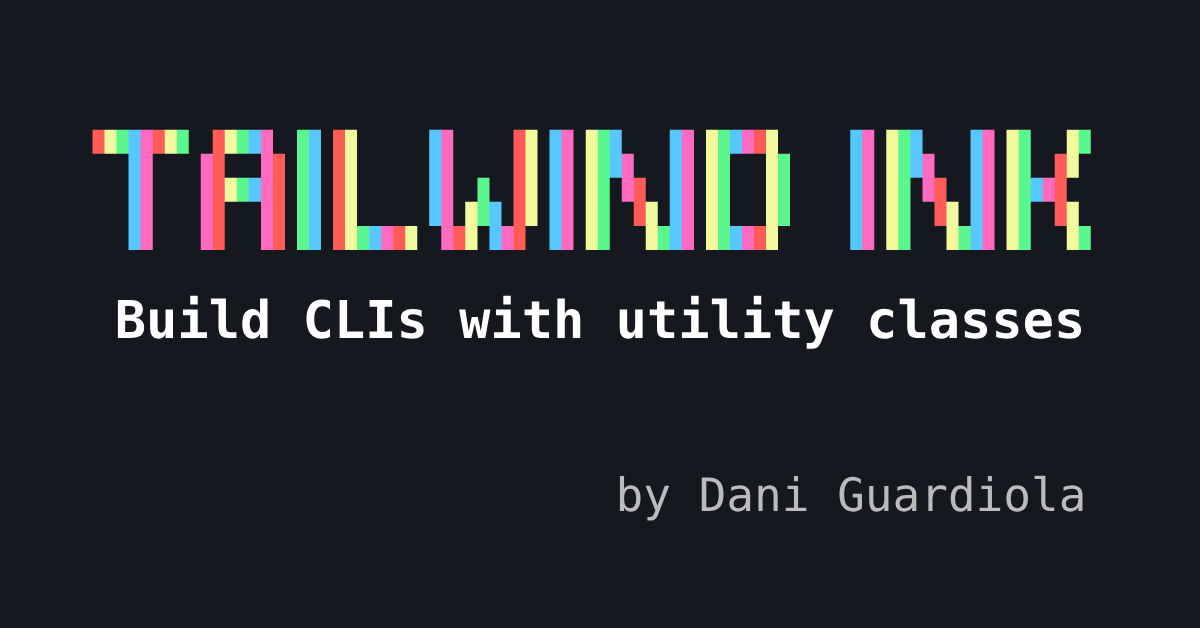
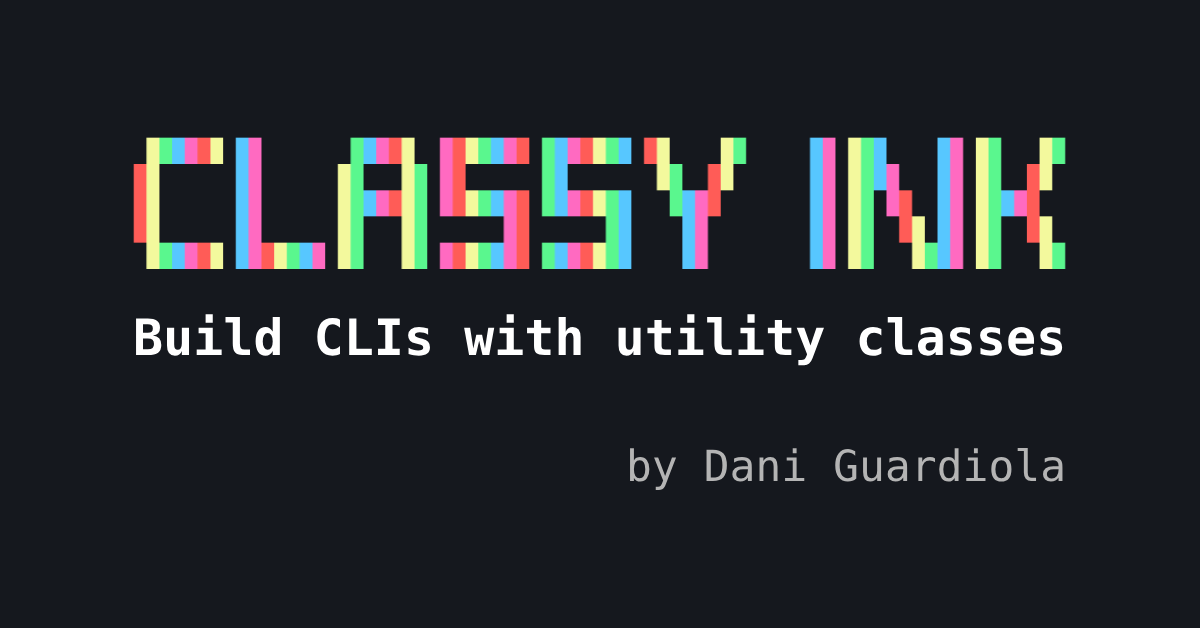
Rebrand Tailwind Ink to Classy Ink (#16)

Changed region(s): [[0.0617, 0.1815, 0.925, 0.5748], [0.4933, 0.6959, 0.925, 0.8169]]

diff --git a/src/demo/components/FlexDemo.tsx b/src/demo/components/FlexDemo.tsx
@@ -1,4 +1,4 @@
-import { Box, Text } from "../../index.js"; // "tailwind-ink"
+import { Box, Text } from "../../index.js"; // "classy-ink"
 import { DemoPageTitle } from "./DemoComponents.js";
 
 function repeat(n: number, fn: (i: number) => JSX.Element) {
@@ -11,7 +11,7 @@ function repeat(n: number, fn: (i: number) => JSX.Element) {
 
 function Column1() {
   return (
-    <Box class="grow flex-col gap-1">
+    <Box class="flex-col grow gap-1">
       <Box class="flex-col">
         <Text class="italic">flex-row</Text>
         <Box class="border border-red flex-row">
@@ -78,7 +78,7 @@ function Column1() {
 
 function Column2() {
   return (
-    <Box class="grow flex-col gap-1">
+    <Box class="flex-col grow gap-1">
       <Box class="flex-col">
         <Text class="italic">gap-1</Text>
         <Box class="border border-red flex-wrap w-30 gap-1">
@@ -125,7 +125,7 @@ function Column2() {
           <Box class="border border-red px-1 grow-0">
             <Text>grow-0</Text>
           </Box>
-          <Box class="grow border border-red px-1">
+          <Box class="border border-red px-1 grow">
             <Text>grow</Text>
           </Box>
         </Box>
@@ -144,10 +144,10 @@ function Column2() {
       <Box class="flex-col">
         <Text class="italic">shrink</Text>
         <Box class="border w-40">
-          <Box class="grow shrink border border-red px-1 w-25">
+          <Box class="border border-red px-1 w-25 grow shrink">
             <Text>shrink</Text>
           </Box>
-          <Box class="grow border border-red px-1 w-25 shrink-0">
+          <Box class="border border-red px-1 w-25 grow shrink-0">
             <Text>shrink-0</Text>
           </Box>
         </Box>
@@ -155,10 +155,10 @@ function Column2() {
       <Box class="flex-col">
         <Text class="italic">basis</Text>
         <Box class="border w-40">
-          <Box class="grow border border-red px-1 w-25 basis-15">
+          <Box class="border border-red px-1 w-25 grow basis-15">
             <Text>basis-15</Text>
           </Box>
-          <Box class="grow border border-red px-1 w-25 basis-5">
+          <Box class="border border-red px-1 w-25 grow basis-5">
             <Text>basis-5</Text>
           </Box>
         </Box>
@@ -169,7 +169,7 @@ function Column2() {
 
 export function FlexDemo() {
   return (
-    <Box class="grow flex-col px-1 gap-1">
+    <Box class="flex-col px-1 grow gap-1">
       <DemoPageTitle>Flex layout (1)</DemoPageTitle>
       <Box class="gap-2">
         <Column1 />

diff --git a/src/demo/lib/ascii-title.ts b/src/demo/lib/ascii-title.ts
@@ -1,7 +1,11 @@
-export const ASCII_TITLE = `
-████████  █████  ██ ██      ██     ██ ██ ███    ██ ██████      ██ ███    ██ ██   ██
-   ██    ██   ██ ██ ██      ██     ██ ██ ████   ██ ██   ██     ██ ████   ██ ██  ██ 
-   ██    ███████ ██ ██      ██  █  ██ ██ ██ ██  ██ ██   ██     ██ ██ ██  ██ █████  
-   ██    ██   ██ ██ ██      ██ ███ ██ ██ ██  ██ ██ ██   ██     ██ ██  ██ ██ ██  ██ 
-   ██    ██   ██ ██ ███████  ███ ███  ██ ██   ████ ██████      ██ ██   ████ ██   ██
-`.trim();
+function trimLineBreaks(str: string): string {
+  return str.replace(/^[\n]+|[\n]+$/g, "");
+}
+
+export const ASCII_TITLE = trimLineBreaks(`
+ ██████ ██       █████  ███████ ███████ ██    ██     ██ ███    ██ ██   ██
+██      ██      ██   ██ ██      ██       ██  ██      ██ ████   ██ ██  ██
+██      ██      ███████ ███████ ███████   ████       ██ ██ ██  ██ █████
+██      ██      ██   ██      ██      ██    ██        ██ ██  ██ ██ ██  ██
+ ██████ ███████ ██   ██ ███████ ███████    ██        ██ ██   ████ ██   ██
+`);

diff --git a/src/demo/components/BorderDemo.tsx b/src/demo/components/BorderDemo.tsx
@@ -1,10 +1,10 @@
 import { BOX_STYLES, COLORS } from "../../data/index.js";
-import { Box, Text } from "../../index.js"; // "tailwind-ink"
+import { Box, Text } from "../../index.js"; // "classy-ink"
 import { DemoPageTitle } from "./DemoComponents.js";
 
 function Column1() {
   return (
-    <Box class="grow flex-col">
+    <Box class="flex-col grow">
       <Text class="italic">{`border-<side>`}</Text>
       <Box class="flex-col gap-1">
         <Box class="flex-col">
@@ -68,7 +68,7 @@ function Column1() {
 
 function Column2() {
   return (
-    <Box class="grow flex-col">
+    <Box class="flex-col grow">
       <Text class="italic">{`border-<color>`}</Text>
       <Box class="flex-col">
         {COLORS.map((color) => (
@@ -83,7 +83,7 @@ function Column2() {
 
 function Column3() {
   return (
-    <Box class="grow flex-col">
+    <Box class="flex-col grow">
       <Text class="italic">border-dim</Text>
       <Box class="flex-col">
         {COLORS.map((color) => (
@@ -98,7 +98,7 @@ function Column3() {
 
 export function BorderDemo() {
   return (
-    <Box class="grow flex-col px-1 gap-1">
+    <Box class="flex-col px-1 grow gap-1">
       <DemoPageTitle>Border utilities</DemoPageTitle>
       <Box class="gap-2">
         <Column1 />

diff --git a/src/demo/components/BasicDemo.tsx b/src/demo/components/BasicDemo.tsx
@@ -1,9 +1,9 @@
-import { Box, Text } from "../../index.js"; // "tailwind-ink"
+import { Box, Text } from "../../index.js"; // "classy-ink"
 import { DemoPageTitle } from "./DemoComponents.js";
 
 function Column1() {
   return (
-    <Box class="grow flex-col gap-1">
+    <Box class="flex-col grow gap-1">
       <Box class="flex-col">
         <Text class="italic">m-1</Text>
         <Box class="border">
@@ -40,7 +40,7 @@ function Column1() {
 
 function Column2() {
   return (
-    <Box class="grow flex-col gap-1">
+    <Box class="flex-col grow gap-1">
       <Box class="flex-col">
         <Text class="italic">p-1</Text>
         <Box class="border border-red p-1">
@@ -71,7 +71,7 @@ function Column2() {
 
 function Column3() {
   return (
-    <Box class="grow flex-col gap-1">
+    <Box class="flex-col grow gap-1">
       <Box class="flex-col">
         <Text class="italic">w-10</Text>
         <Box class="border border-red w-10" />
@@ -104,10 +104,9 @@ function Column3() {
   );
 }
 
-
 export function BasicDemo() {
   return (
-    <Box class="grow flex-col px-1 gap-1">
+    <Box class="flex-col px-1 grow gap-1">
       <DemoPageTitle>Basic utilities</DemoPageTitle>
       <Box class="gap-2">
         <Column1 />

diff --git a/src/demo/components/FlexDemo2.tsx b/src/demo/components/FlexDemo2.tsx
@@ -1,4 +1,4 @@
-import { Box, Text } from "../../index.js"; // "tailwind-ink"
+import { Box, Text } from "../../index.js"; // "classy-ink"
 import { DemoPageTitle } from "./DemoComponents.js";
 
 function repeat(n: number, fn: (i: number) => JSX.Element) {
@@ -11,7 +11,7 @@ function repeat(n: number, fn: (i: number) => JSX.Element) {
 
 function Column1() {
   return (
-    <Box class="grow flex-col gap-1">
+    <Box class="flex-col grow gap-1">
       <Box class="flex-col">
         <Text class="italic">items-start</Text>
         <Box class="border border-red items-start h-7">
@@ -58,7 +58,7 @@ function Column1() {
 
 function Column2() {
   return (
-    <Box class="grow flex-col gap-1">
+    <Box class="flex-col grow gap-1">
       <Box class="flex-col">
         <Text class="italic">justify-start</Text>
         <Box class="border border-red justify-start">
@@ -115,7 +115,7 @@ function Column2() {
 
 export function FlexDemo2() {
   return (
-    <Box class="grow flex-col px-1 gap-1">
+    <Box class="flex-col px-1 grow gap-1">
       <DemoPageTitle>Flex layout (2)</DemoPageTitle>
       <Box class="gap-2">
         <Column1 />

diff --git a/src/components/ClassyInkProvider.tsx b/src/components/ClassyInkProvider.tsx
@@ -2,19 +2,19 @@ import { type ReactNode, useMemo } from "react";
 
 import { createLruCache } from "../lib/create-lru-cache.js";
 import { type Props } from "../shared.js";
-import { TailwindInkContext } from "./context.js";
+import { ClassyInkContext } from "./context.js";
 
 const DEFAULT_MAX_CACHE_SIZE = 500;
 
-export type TailwindInkProviderProps = {
+export type ClassyInkProviderProps = {
   maxCacheSize?: number;
   children: ReactNode;
 };
 
-export function TailwindInkProvider({
+export function ClassyInkProvider({
   maxCacheSize = DEFAULT_MAX_CACHE_SIZE,
   children,
-}: TailwindInkProviderProps) {
+}: ClassyInkProviderProps) {
   const cache = useMemo(
     () =>
       maxCacheSize > 0
@@ -23,8 +23,8 @@ export function TailwindInkProvider({
     [maxCacheSize],
   );
   return (
-    <TailwindInkContext.Provider value={{ cache }}>
+    <ClassyInkContext.Provider value={{ cache }}>
       {children}
-    </TailwindInkContext.Provider>
+    </ClassyInkContext.Provider>
   );
 }

diff --git a/src/demo/index.tsx b/src/demo/index.tsx
@@ -2,8 +2,8 @@
 import { render, useInput } from "ink";
 import { useState } from "react";
 
-import { TailwindInkProvider } from "../components/TailwindInkProvider.js";
-import { Box, Text } from "../index.js"; // "tailwind-ink"
+import { ClassyInkProvider } from "../components/ClassyInkProvider.js";
+import { Box, Text } from "../index.js"; // "classy-ink"
 import { BasicDemo } from "./components/BasicDemo.js";
 import { BorderDemo } from "./components/BorderDemo.js";
 import { FlexDemo } from "./components/FlexDemo.js";
@@ -93,12 +93,12 @@ function Menu({ onDemoStart }: MenuProps) {
     }
   });
   return (
-    <TailwindInkProvider>
+    <ClassyInkProvider>
       <Box class="border-t border-b border-double border-blue">
         <MenuButton selected={selected === "START"}>Start demo</MenuButton>
         <MenuButton selected={selected === "QUIT"}>Quit</MenuButton>
       </Box>
-    </TailwindInkProvider>
+    </ClassyInkProvider>
   );
 }
 

diff --git a/src/components/useClassyInk.ts b/src/components/useClassyInk.ts
@@ -1,16 +1,16 @@
 import { useMemo } from "react";
 
-import { tailwindToInkProps } from "../index.js";
+import { compileClass } from "../index.js";
 import { type Props } from "../shared.js";
-import { useTailwindInkContext } from "./context.js";
+import { useClassyInkContext } from "./context.js";
 
-export function useTailwindInk(className?: string): Props {
-  const { cache } = useTailwindInkContext();
+export function useClassyInk(className?: string): Props {
+  const { cache } = useClassyInkContext();
   return useMemo(() => {
     if (!className) return {};
     const cacheResult = cache?.get(className);
     if (cacheResult) return cacheResult;
-    const result = tailwindToInkProps(className);
+    const result = compileClass(className);
     cache?.set(className, result);
     return result;
   }, [className]);

diff --git a/src/demo/components/TextDemo.tsx b/src/demo/components/TextDemo.tsx
@@ -1,5 +1,5 @@
 import { COLORS } from "../../data/colors.js";
-import { Box, Text } from "../../index.js"; // "tailwind-ink"
+import { Box, Text } from "../../index.js"; // "classy-ink"
 import { DemoPageTitle } from "./DemoComponents.js";
 
 const LOREM_IPSUM =
@@ -7,7 +7,7 @@ const LOREM_IPSUM =
 
 function Column1() {
   return (
-    <Box class="grow flex-col w-40 gap-1">
+    <Box class="flex-col w-40 grow gap-1">
       <Box class="flex-col">
         <Text class="italic">whitespace-wrap</Text>
         <Box class="border flex-row">
@@ -93,7 +93,7 @@ function Column5() {
 
 export function TextDemo() {
   return (
-    <Box class="grow flex-col px-1 gap-1">
+    <Box class="flex-col px-1 grow gap-1">
       <DemoPageTitle>Text utilities</DemoPageTitle>
       <Box class="gap-2">
         <Column1 />

diff --git a/src/components/context.tsx b/src/components/context.tsx
@@ -3,14 +3,14 @@ import { createContext, useContext } from "react";
 import { type LruCache } from "../lib/create-lru-cache.js";
 import { type Props } from "../shared.js";
 
-type TailwindInkContextValue = {
+type ClassyInkContextValue = {
   cache?: LruCache<string, Props>;
 };
 
-export const TailwindInkContext = createContext<
-  TailwindInkContextValue | undefined
+export const ClassyInkContext = createContext<
+  ClassyInkContextValue | undefined
 >(undefined);
 
-export function useTailwindInkContext(): Partial<TailwindInkContextValue> {
-  return useContext(TailwindInkContext) ?? {};
+export function useClassyInkContext(): Partial<ClassyInkContextValue> {
+  return useContext(ClassyInkContext) ?? {};
 }

diff --git a/src/components/Box.tsx b/src/components/Box.tsx
@@ -1,7 +1,7 @@
-import { Box as InkBox,type DOMElement } from "ink";
+import { Box as InkBox, type DOMElement } from "ink";
 import { type ComponentPropsWithRef, forwardRef } from "react";
 
-import { useTailwindInk } from "./tailwind-ink.js";
+import { useClassyInk } from "./useClassyInk.js";
 
 export type BoxProps = ComponentPropsWithRef<typeof InkBox> & {
   class?: string;
@@ -11,5 +11,5 @@ export const Box = forwardRef<DOMElement, BoxProps>(function Box(
   { class: className, ...props },
   ref,
 ) {
-  return <InkBox ref={ref} {...useTailwindInk(className)} {...props} />;
+  return <InkBox ref={ref} {...useClassyInk(className)} {...props} />;
 });

diff --git a/src/lib/compile-class.ts b/src/lib/compile-class.ts
@@ -1,4 +1,4 @@
-import { parseFragment,type Props } from "../shared.js";
+import { parseFragment, type Props } from "../shared.js";
 import { UTILITY_TRANSFORMER_MAP } from "../transformers/index.js";
 
 function transformUtility(
@@ -28,7 +28,7 @@ function utilityToInkProps(utility: string, currentProps: Props): Props {
   return result;
 }
 
-export function tailwindToInkProps(className: string): Props {
+export function compileClass(className: string): Props {
   const props: Props = {};
   className
     .split(" ")
